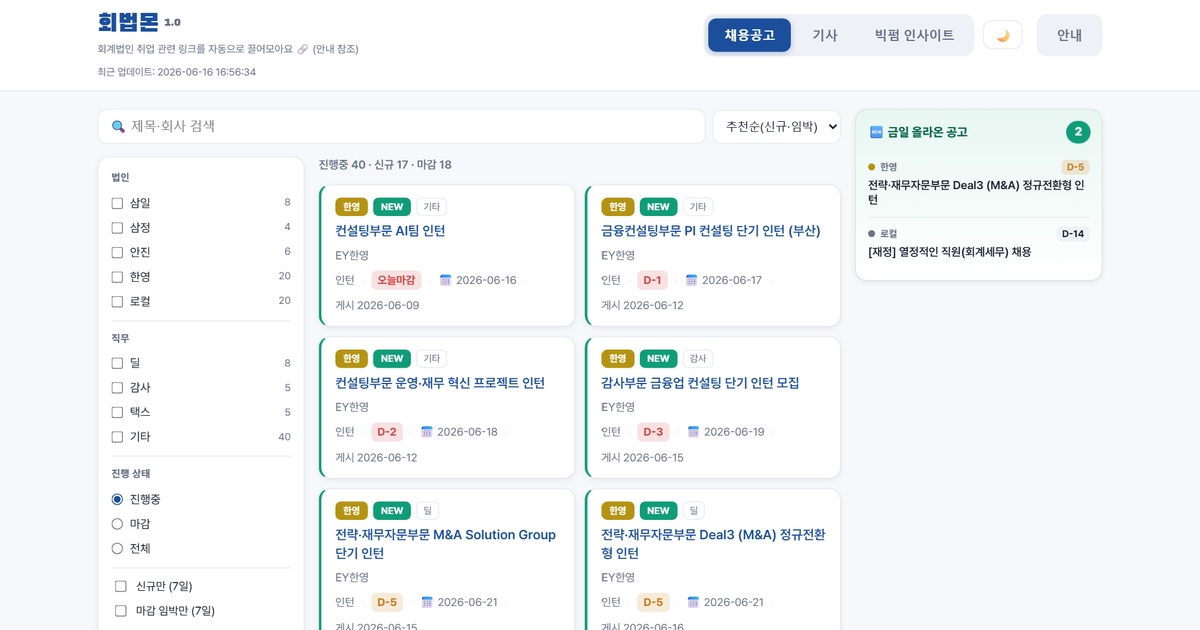
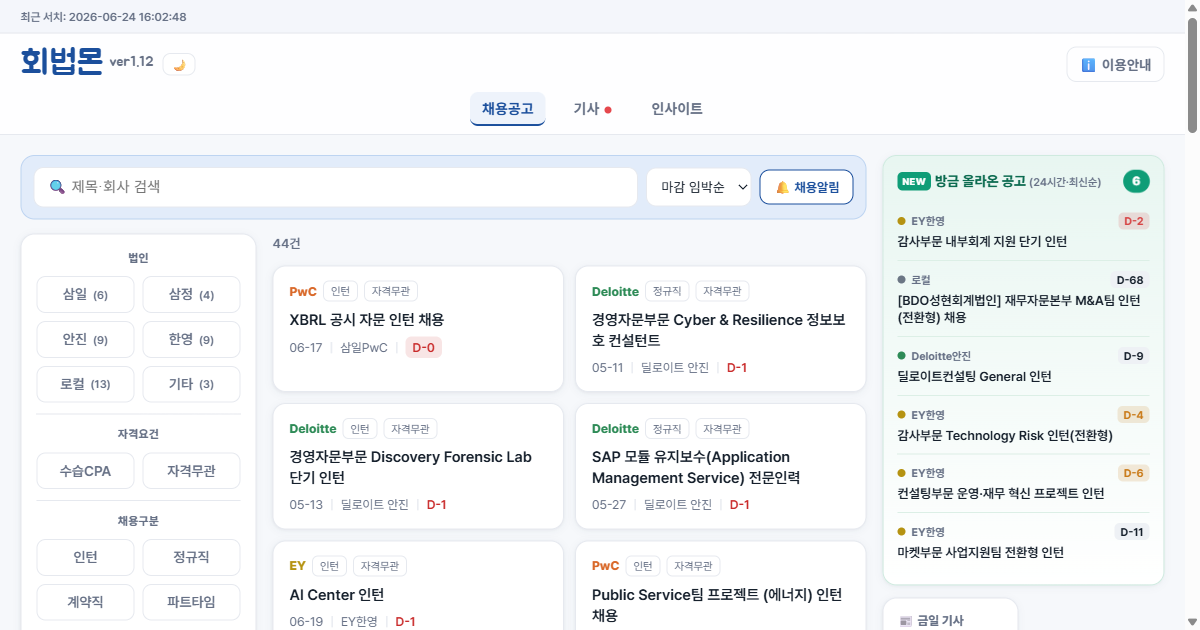
feat(seo): OG 이미지 현행 UI(ver1.12)로 갱신 + 캐시버스트
og.png를 ver1.0 구화면→현재 ver1.12 홈 캡처(1200x630)로 교체.
og:image에 ?v=2 + width/height·twitter:image 명시로 소셜/검색 캐시 갱신 유도.

diff --git a/docs/index.html b/docs/index.html
@@ -28,8 +28,11 @@
   <meta property="og:title" content="회법몬 — 회계법인 채용공고·업계기사 모아보기" />
   <meta property="og:description" content="한공회·빅4 채용공고와 회계·세무·딜 기사를 한곳에. 수습공인회계사·회계법인 입사 준비자용." />
   <meta property="og:url" content="https://hbmons.com/" />
-  <meta property="og:image" content="https://hbmons.com/og.png" />
+  <meta property="og:image" content="https://hbmons.com/og.png?v=2" />
+  <meta property="og:image:width" content="1200" />
+  <meta property="og:image:height" content="630" />
   <meta name="twitter:card" content="summary_large_image" />
+  <meta name="twitter:image" content="https://hbmons.com/og.png?v=2" />
   <script type="application/ld+json">
   {
     "@context": "https://schema.org",